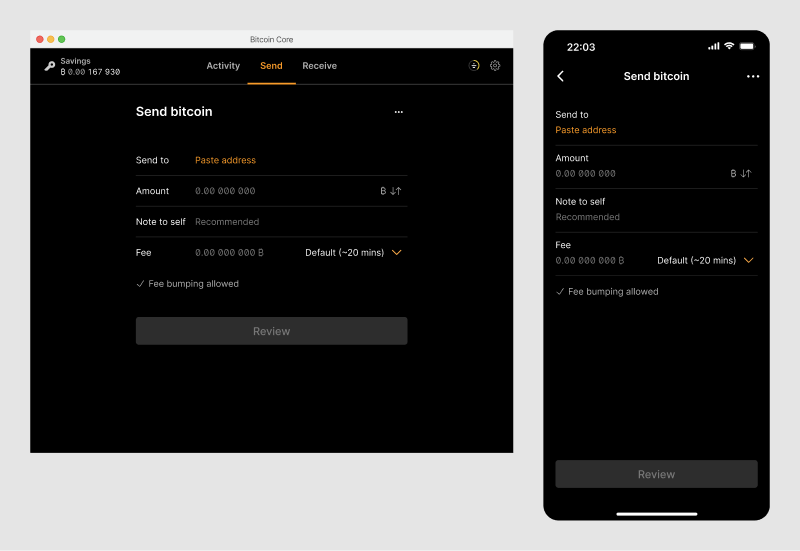
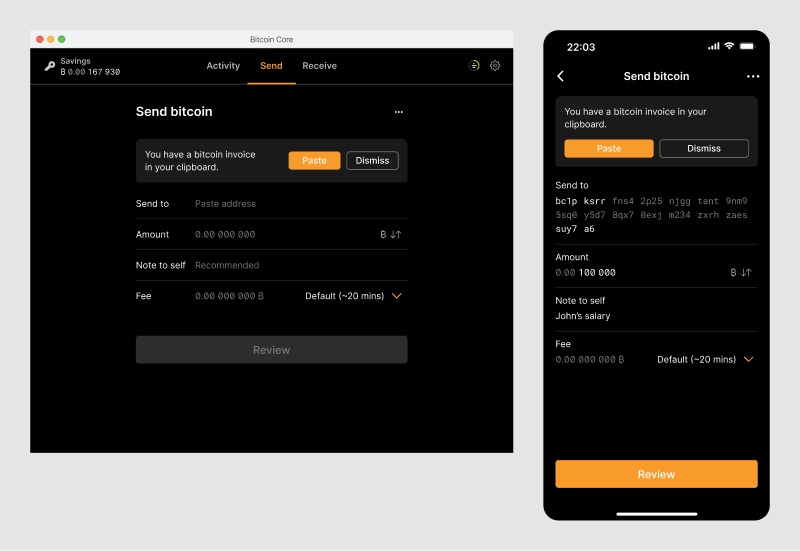
Updated send input

diff --git a/pages/send/send-form-inputs.md b/pages/send/send-form-inputs.md
@@ -35,8 +35,51 @@ indent: true
 
 ## Note to self
 
+The note to self is recommended for each transaction. It can have up to 255 characters, as recommended in [BIP-329](https://github.com/bitcoin/bips/blob/master/bip-0329.mediawiki). 
+
+{% include picture.html
+	image = "/assets/images/send/send-inputs-note.png"
+	retina = "/assets/images/send/send-inputs-note@2x.png"
+	big = "/assets/images/send/send-inputs-note-big.png"
+	alt-text = "List of the note to self input field in different states."
+	width = 800
+	height = 418
+%}
+
 ## Fee selection
 
+By default the application lets users choose between three standard fee options which are based on different confirmation speeds. 
+
 ### Standard fee
+{% include picture.html
+	image = "/assets/images/send/send-inputs-fee-standard.png"
+	retina = "/assets/images/send/send-inputs-fee-standard@2x.png"
+	big = "/assets/images/send/send-inputs-fee-standard-big.png"
+	alt-text = "List of the fee selection input field in different states."
+	width = 800
+	height = 507
+%}
 
 ### Custom fees
+
+Users can set a custom fee by enabling the custom fee option in the send options dropdown. The default value is set to the same value as the default option in the standard selection.
+
+{% include picture.html
+	image = "/assets/images/send/send-form-custom-fee.png"
+	retina = "/assets/images/send/send-form-custom-fee@2x.png"
+	big = "/assets/images/send/send-form-custom-fee-big.png"
+	alt-text = "List of the custom fee input field in different states."
+	width = 800
+	height = 366
+%}
+
+Users can run into special scenarios when setting a custom fee. They could, for example, try to enter a very low or extremely high. In both cases, the application shows a warning message to help users make an informed decision. 
+
+{% include picture.html
+	image = "/assets/images/send/send-inputs-fee-custom.png"
+	retina = "/assets/images/send/send-inputs-fee-custom@2x.png"
+	big = "/assets/images/send/send-inputs-fee-custom-big.png"
+	alt-text = "List of the custom fee input field in different states."
+	width = 800
+	height = 718
+%}
